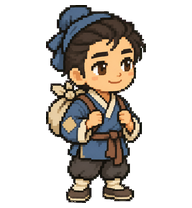
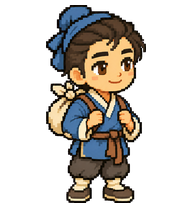
Correct Dong Yong elbow-tip patch placement
Move visible patch to the rear-bottom elbow turn; provide transparent source and updated character description.

diff --git a/designs/tian-xian-pei/tian-xian-pei-dong-yong/README.md b/designs/tian-xian-pei/tian-xian-pei-dong-yong/README.md
@@ -2,10 +2,8 @@
 
 ![主形象](portrait.png)
 
-黄梅戏《天仙配》董永。贫寒劳动者，与七仙女结为夫妻；质朴、诚恳是设计提取。本系列将其设计为可靠、踏实、略腼腆；像安静把活做完的伙伴。专属形象标志为【肘部方补丁靛蓝短衫＋十字结软包袱】，仅由本角色使用，其他人物不得借用。
+黄梅戏《天仙配》董永。贫寒劳动者，与七仙女结为夫妻；质朴、诚恳是设计提取。本系列将其设计为可靠、踏实、略腼腆；像安静把活做完的伙伴。专属形象标志为【肘部方补丁靛蓝短衫＋十字结软包袱】，仅由本角色使用，其他人物不得借用。 方补丁缝在袖子覆盖肘尖的位置，即肘关节后方、做平板支撑时接触地面的部位；不在肘关节侧面、上臂或前臂侧边。补丁随肘部弯曲和遮挡自然变化，不为露出补丁而把它移到侧面。
 
-专属标志：**肘部方补丁靛蓝短衫＋十字结软包袱**，其他角色不得借用。
+当前为静态主形象，尚不是可安装的动画包。补丁位置已按肘尖修正，现有动画仍需同步复查。
 
-当前为静态主形象，尚不是可安装的动画包。工作、等待与谢幕动画待制作。
-
-作者：wzf-cn。许可：CC BY 4.0。内置 imagegen 生成，经过独立视觉检查；属于戏曲主题卡通设计，不作为特定演出服饰的复原。
+作者：wzf-cn。许可：CC BY 4.0。内置 imagegen 生成并经过视觉检查；透明 PNG。属于戏曲主题卡通设计，不作为特定演出服饰的复原。
